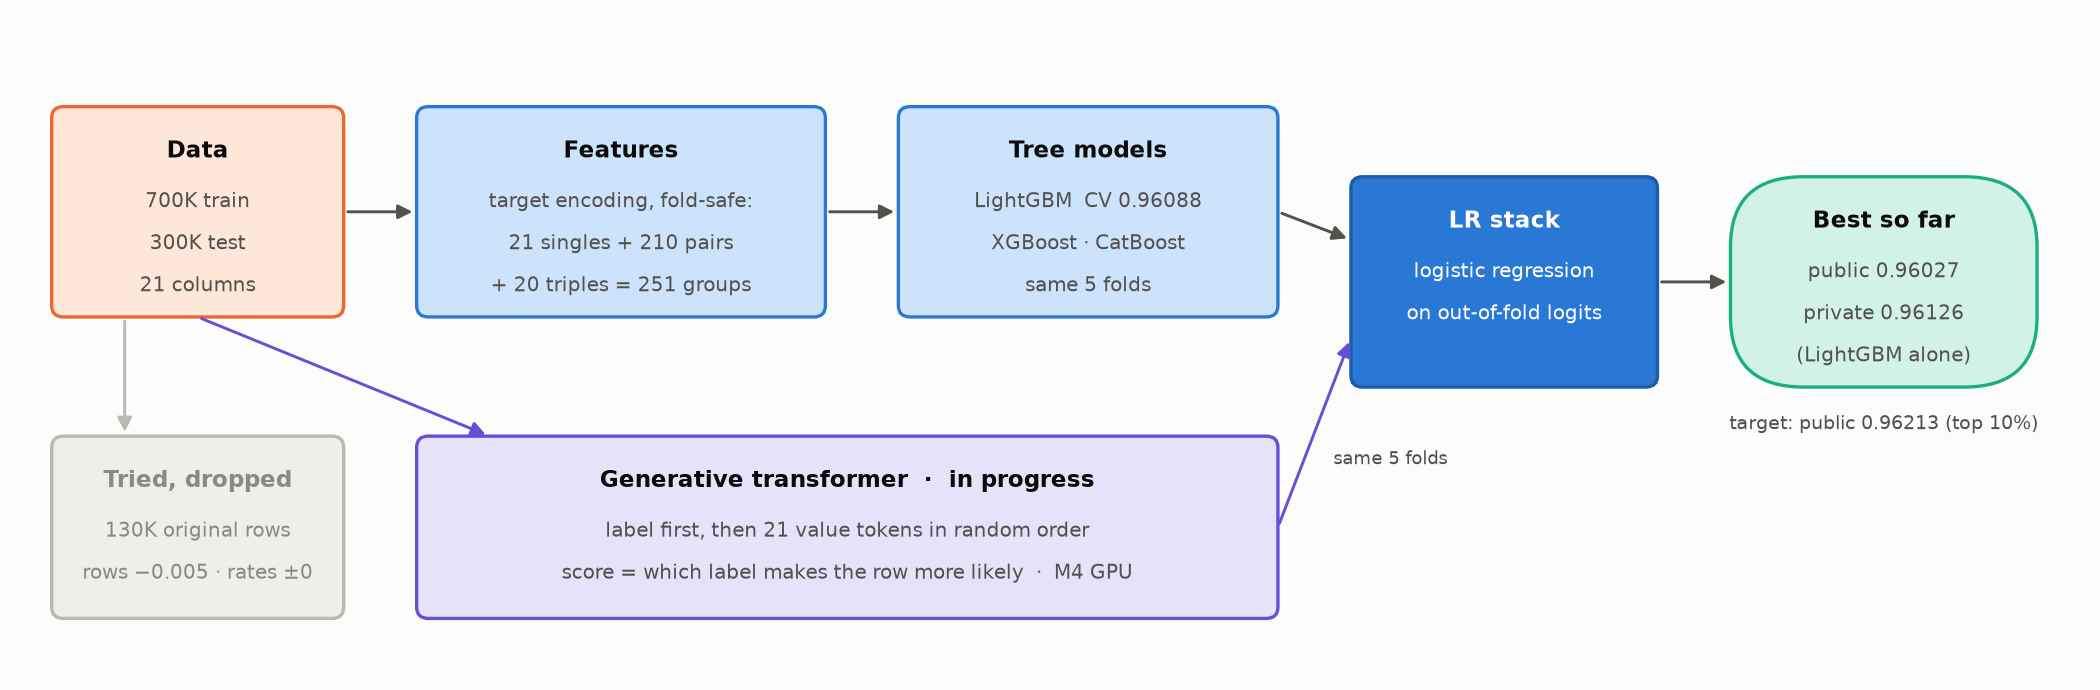
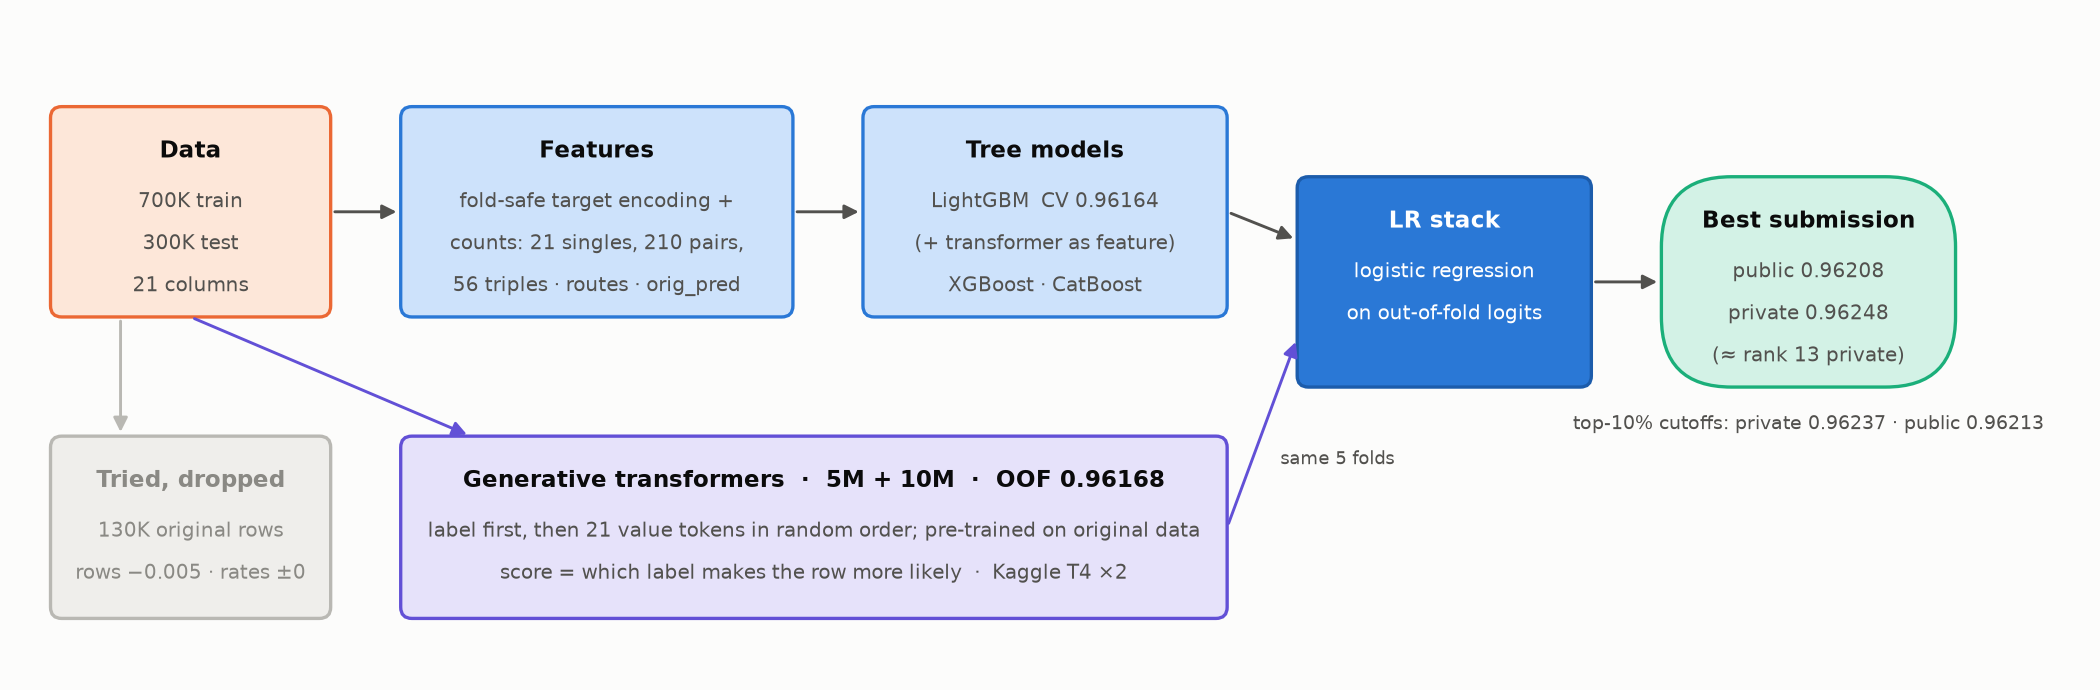
Finalize experiment 10 and update the pipeline diagram
Diagram now shows the final setup: extended features with the transformer
as a LightGBM feature (CV 0.96164), pre-trained 5M + 10M transformers
(OOF 0.96168), and the best submission (public 0.96208, private 0.96248).
Experiment 10 notes the cancelled seed-7 run and the next steps.

diff --git a/src/pipeline_diagram.py b/src/pipeline_diagram.py
@@ -43,12 +43,12 @@ def arrow(x1, y1, x2, y2, label=None, color=INK2):
 
 
 box(0.2, 2.5, 2.0, 1.5, "data", "Data", ["700K train", "300K test", "21 columns"])
-box(2.7, 2.5, 2.8, 1.5, "feat", "Features", ["target encoding, fold-safe:", "21 singles + 210 pairs", "+ 20 triples = 251 groups"])
-box(6.0, 2.5, 2.6, 1.5, "model", "Tree models", ["LightGBM  CV 0.96088", "XGBoost · CatBoost", "same 5 folds"])
+box(2.7, 2.5, 2.8, 1.5, "feat", "Features", ["fold-safe target encoding +", "counts: 21 singles, 210 pairs,", "56 triples · routes · orig_pred"])
+box(6.0, 2.5, 2.6, 1.5, "model", "Tree models", ["LightGBM  CV 0.96164", "(+ transformer as feature)", "XGBoost · CatBoost"])
 box(9.1, 2.0, 2.1, 1.5, "stack", "LR stack", ["logistic regression", "on out-of-fold logits"], light_text=True)
-box(11.7, 2.0, 2.1, 1.5, "result", "Best so far", ["public 0.96027", "private 0.96126", "(LightGBM alone)"], round_=0.5)
-box(2.7, 0.35, 5.9, 1.3, "gen", "Generative transformer  ·  in progress",
-    ["label first, then 21 value tokens in random order", "score = which label makes the row more likely  ·  M4 GPU"])
+box(11.7, 2.0, 2.1, 1.5, "result", "Best submission", ["public 0.96208", "private 0.96248", "(≈ rank 13 private)"], round_=0.5)
+box(2.7, 0.35, 5.9, 1.3, "gen", "Generative transformers  ·  5M + 10M  ·  OOF 0.96168",
+    ["label first, then 21 value tokens in random order; pre-trained on original data", "score = which label makes the row more likely  ·  Kaggle T4 ×2"])
 box(0.2, 0.35, 2.0, 1.3, "dropped", "Tried, dropped", ["130K original rows", "rows −0.005 · rates ±0"])
 
 arrow(2.2, 3.25, 2.7, 3.25)
@@ -59,7 +59,7 @@ arrow(8.6, 1.0, 9.1, 2.35, color=STEPS["gen"][1])
 ax.text(8.98, 1.45, "same 5 folds", ha="left", fontsize=8.5, color=INK2)
 arrow(0.7, 2.5, 0.7, 1.65, color=STEPS["dropped"][1])
 arrow(11.2, 2.75, 11.7, 2.75)
-ax.text(12.75, 1.7, "target: public 0.96213 (top 10%)", ha="center", fontsize=9, color=INK2)
+ax.text(12.75, 1.7, "top-10% cutoffs: private 0.96237 · public 0.96213", ha="center", fontsize=9, color=INK2)
 
 fig.tight_layout()
 fig.savefig("docs/pipeline.png", dpi=150, facecolor=SURFACE)

diff --git a/experiments/experiment-10-pretrained-transformers/README.md b/experiments/experiment-10-pretrained-transformers/README.md
@@ -1,4 +1,4 @@
-# Experiment 10: Pre-trained and larger transformers (in progress)
+# Experiment 10: Pre-trained and larger transformers
 
 **Goal:** push the transformer past the trees by pre-training on the original data, training longer and growing the model. Also test LightGBM with the transformer's prediction as a feature.
 
@@ -105,3 +105,10 @@ uv run python src/train.py --model lgb --feats te --pairs all --triples 8 --coun
 - **Private 0.96248 ranks about 13 462 of 3,735 (top-10% cutoff 0.96237).** Public 0.96208 ranks about , just 0.00005 under its cutoff of 0.96213.
 - The 10M takes the largest stack weight (0.31), with the pre-trained 5M at 0.16. Two transformer runs together add +0.0001 CV over one.
 - The probe AUC in the logs varies about 0.004 between folds (fold 4 read 0.9638, folds 0–1 about 0.960). That's which 20k passengers the probe holds, not overfitting: it's held-out data, it never selects the epoch, and CV has tracked the leaderboard on every submission.
+
+### Stopped here
+
+A second pre-trained 5M seed (seed 7) was started to close the last 0.00005 on the public board, then cancelled after 3 epochs; no more runs were needed. The likely next steps, if resumed:
+- 2–3 more transformer seeds (averaging the 5M and 10M runs gave +0.0002 to +0.0004 per fold), cheapest on rented RTX 4090s;
+- longer pre-training on the original data (we used 20 epochs; the winner found 60 clearly better than 8);
+- the label placed at a random position instead of first, as a diverse stack member.

diff --git a/README.md b/README.md
@@ -17,7 +17,7 @@
 | 7 | [Transformer 5M](experiments/experiment-07-transformer-5m/) | 0.96125 (stack 0.96176) | 0.96161 | 0.96205 | Beats trees; stack +0.0013 public |
 | 8 | [LightGBM tuning](experiments/experiment-08-lightgbm-tuning/) | 0.96097 | | | Saturated |
 | 9 | [Counts, triples, routes, original-data model](experiments/experiment-09-extended-features/) | 0.96125 (stack 0.96186) | 0.96176 | 0.96215 | +0.0003 trees |
-| 10 | [Pre-trained and larger transformers](experiments/experiment-10-pretrained-transformers/) | 0.96168 (stack 0.96216) | **0.96208** | **0.96248** | **Private top 10%** |
+| 10 | [Pre-trained and larger transformers](experiments/experiment-10-pretrained-transformers/) | 0.96168 (stack 0.96216) | **0.96208** | **0.96248** | **Private top 10% (~rank 13)** |
 
 ## Layout
 
